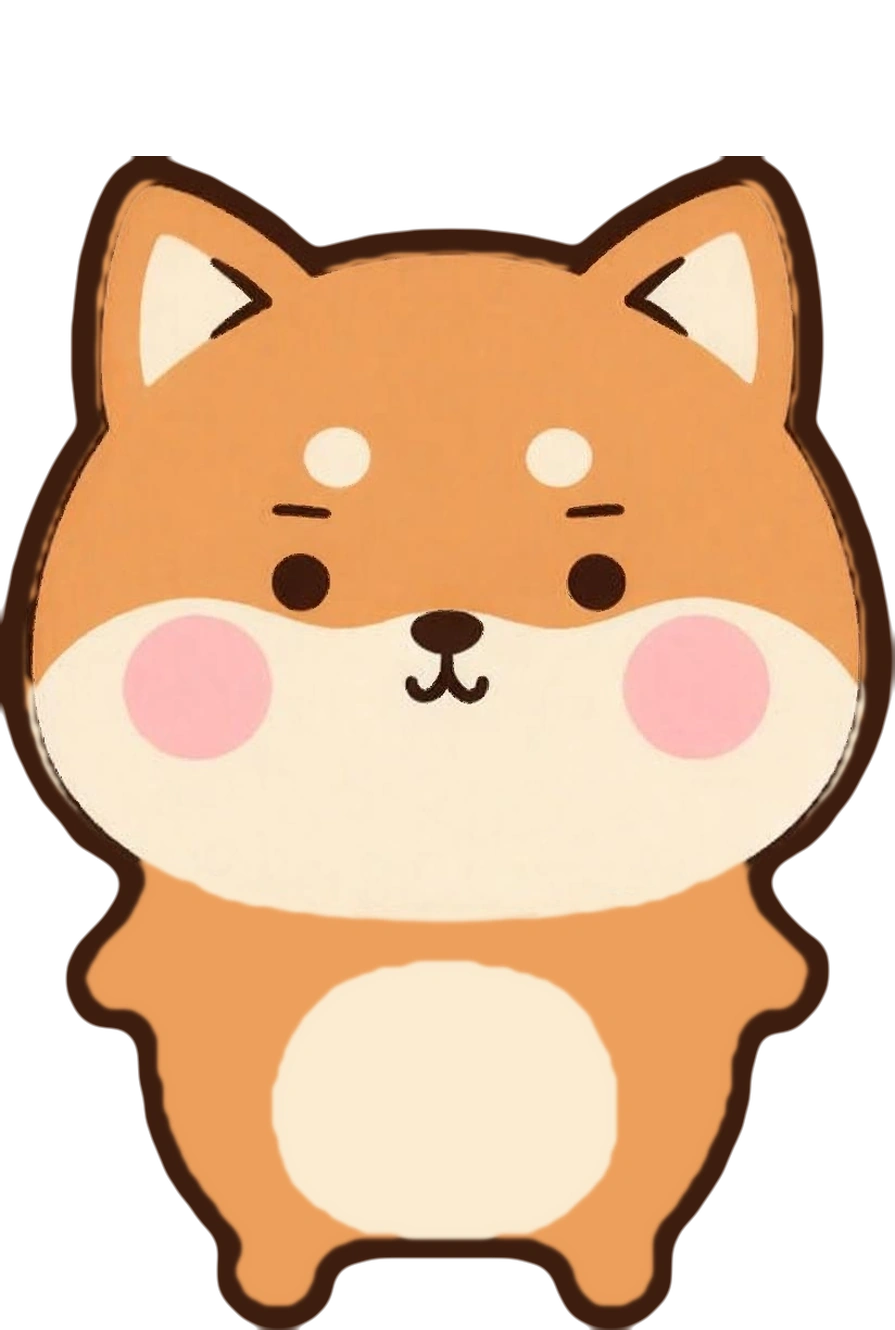
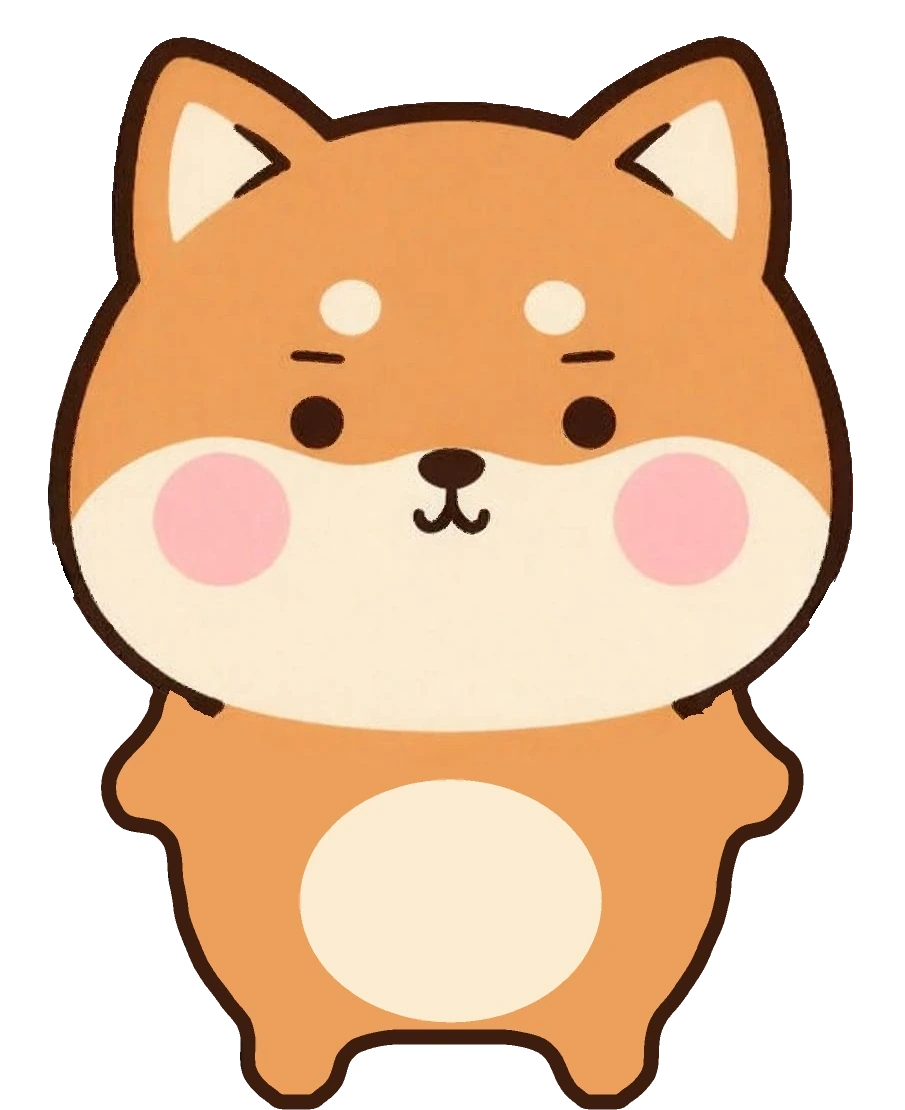
운동기록 프로토타입 v2.05 — 공유 카드 밤톨 Lv.1 그림 2개 교체(design nijim_share_bamtol_lv01_v205_20261121: 볼 테두리 좌우 잘림·귀 끝 평평 수정) + 볼 바깥 떨어진 1px 잔선만 제거(hd 130px) · share.js CH_SIZE 밤톨 01 story [535,656]·square [304,373] · 캐시키 v=2.05 · 되돌릴 곳 871be8bb

diff --git a/share.js b/share.js
@@ -63,7 +63,7 @@ const cutKey = lv => lv >= 99 ? '99' : ['01', '10', '20', '30', '40', '50', '60'
 const charSrc = (t, lv) => `assets/share/char/${t}/lv${cutKey(lv)}.webp?v=${VER}`;
 /* v1.48 캐릭터 오운완 전용 고해상 원본 + 표시 크기 표(정본 nijim_ounwan_char_square_v148_20261112 SIZE_TABLE.json, 정사각=A안) */
 const charHdSrc = (t, lv) => `assets/share/char_hd/${t}/lv${cutKey(lv)}.webp?v=${VER}`;
-const CH_SIZE = {"story":{"bamtol":{"01":[484,719],"10":[521,725],"20":[531,732],"30":[561,733],"40":[595,732],"50":[622,728],"60":[683,714],"70":[703,707],"80":[716,698],"90":[755,683],"99":[760,679]},"capy":{"01":[517,689],"10":[439,748],"20":[490,735],"30":[503,753],"40":[564,735],"50":[633,743],"60":[601,748],"70":[659,722],"80":[654,738],"90":[678,714],"99":[713,701]},"dot":{"01":[603,687],"10":[570,714],"20":[575,735],"30":[601,737],"40":[626,749],"50":[669,761],"60":[667,748],"70":[725,678],"80":[733,667],"90":[770,654],"99":[771,637]},"imu":{"01":[522,711],"10":[496,722],"20":[492,744],"30":[498,753],"40":[535,754],"50":[616,728],"60":[660,713],"70":[684,711],"80":[678,732],"90":[710,720],"99":[745,701]},"koa":{"01":[590,652],"10":[560,681],"20":[517,689],"30":[536,693],"40":[619,674],"50":[626,715],"60":[673,700],"70":[673,710],"80":[703,701],"90":[696,708],"99":[789,654]},"mungchi":{"01":[853,408],"10":[600,565],"20":[627,585],"30":[609,618],"40":[633,639],"50":[753,585],"60":[709,625],"70":[710,649],"80":[712,658],"90":[747,647],"99":[698,700]},"ppiyak":{"01":[496,725],"10":[472,757],"20":[504,764],"30":[505,788],"40":[602,768],"50":[635,758],"60":[638,758],"70":[632,779],"80":[698,735],"90":[703,732],"99":[734,693]},"rilla":{"01":[534,735],"10":[480,764],"20":[478,770],"30":[497,779],"40":[551,771],"50":[656,753],"60":[634,769],"70":[679,757],"80":[711,739],"90":[714,733],"99":[771,691]},"saetbyeol":{"01":[515,752],"10":[467,789],"20":[452,821],"30":[507,795],"40":[517,810],"50":[622,777],"60":[657,734],"70":[662,757],"80":[677,755],"90":[667,776],"99":[725,739]},"shadow":{"01":[917,447],"10":[586,671],"20":[632,648],"30":[679,661],"40":[691,674],"50":[669,736],"60":[697,694],"70":[712,706],"80":[711,713],"90":[743,694],"99":[787,689]},"ttukbi":{"01":[516,756],"10":[484,776],"20":[456,807],"30":[536,778],"40":[567,778],"50":[631,776],"60":[621,799],"70":[653,778],"80":[692,755],"90":[703,746],"99":[747,719]},"youngcha":{"01":[474,787],"10":[447,823],"20":[499,813],"30":[501,826],"40":[547,825],"50":[649,781],"60":[719,764],"70":[715,771],"80":[698,794],"90":[733,780],"99":[793,720]}},"square":{"bamtol":{"01":[276,409],"10":[296,413],"20":[302,416],"30":[319,417],"40":[338,417],"50":[354,414],"60":[388,406],"70":[400,403],"80":[407,398],"90":[429,388],"99":[433,387]},"capy":{"01":[294,392],"10":[250,426],"20":[279,419],"30":[286,429],"40":[321,418],"50":[361,423],"60":[342,425],"70":[375,411],"80":[372,420],"90":[386,406],"99":[406,399]},"dot":{"01":[343,391],"10":[324,406],"20":[327,418],"30":[342,420],"40":[356,426],"50":[381,433],"60":[379,426],"70":[413,386],"80":[417,380],"90":[438,372],"99":[439,362]},"imu":{"01":[297,405],"10":[282,411],"20":[280,424],"30":[283,429],"40":[305,429],"50":[351,415],"60":[376,406],"70":[389,405],"80":[386,416],"90":[404,410],"99":[424,399]},"koa":{"01":[336,371],"10":[319,387],"20":[294,392],"30":[305,395],"40":[352,383],"50":[356,407],"60":[383,398],"70":[383,404],"80":[400,399],"90":[396,403],"99":[449,372]},"mungchi":{"01":[452,216],"10":[341,321],"20":[357,333],"30":[347,352],"40":[360,364],"50":[429,333],"60":[404,356],"70":[404,369],"80":[405,375],"90":[425,368],"99":[397,399]},"ppiyak":{"01":[282,413],"10":[269,431],"20":[287,435],"30":[287,449],"40":[343,437],"50":[361,432],"60":[363,432],"70":[359,443],"80":[397,418],"90":[400,417],"99":[418,394]},"rilla":{"01":[304,418],"10":[273,435],"20":[272,438],"30":[283,443],"40":[314,439],"50":[373,429],"60":[361,438],"70":[386,431],"80":[405,421],"90":[407,417],"99":[439,393]},"saetbyeol":{"01":[293,428],"10":[266,449],"20":[257,467],"30":[288,453],"40":[295,461],"50":[354,442],"60":[374,418],"70":[377,431],"80":[386,430],"90":[380,442],"99":[413,421]},"shadow":{"01":[452,220],"10":[334,382],"20":[359,369],"30":[386,376],"40":[393,384],"50":[381,419],"60":[397,395],"70":[405,402],"80":[405,406],"90":[423,395],"99":[448,392]},"ttukbi":{"01":[294,430],"10":[275,442],"20":[259,459],"30":[305,443],"40":[323,443],"50":[359,442],"60":[353,455],"70":[372,443],"80":[394,430],"90":[400,425],"99":[425,409]},"youngcha":{"01":[270,448],"10":[254,468],"20":[284,463],"30":[285,470],"40":[311,470],"50":[369,445],"60":[409,435],"70":[407,439],"80":[397,452],"90":[417,444],"99":[451,410]}}};
+const CH_SIZE = {"story":{"bamtol":{"01":[535,656],"10":[521,725],"20":[531,732],"30":[561,733],"40":[595,732],"50":[622,728],"60":[683,714],"70":[703,707],"80":[716,698],"90":[755,683],"99":[760,679]},"capy":{"01":[517,689],"10":[439,748],"20":[490,735],"30":[503,753],"40":[564,735],"50":[633,743],"60":[601,748],"70":[659,722],"80":[654,738],"90":[678,714],"99":[713,701]},"dot":{"01":[603,687],"10":[570,714],"20":[575,735],"30":[601,737],"40":[626,749],"50":[669,761],"60":[667,748],"70":[725,678],"80":[733,667],"90":[770,654],"99":[771,637]},"imu":{"01":[522,711],"10":[496,722],"20":[492,744],"30":[498,753],"40":[535,754],"50":[616,728],"60":[660,713],"70":[684,711],"80":[678,732],"90":[710,720],"99":[745,701]},"koa":{"01":[590,652],"10":[560,681],"20":[517,689],"30":[536,693],"40":[619,674],"50":[626,715],"60":[673,700],"70":[673,710],"80":[703,701],"90":[696,708],"99":[789,654]},"mungchi":{"01":[853,408],"10":[600,565],"20":[627,585],"30":[609,618],"40":[633,639],"50":[753,585],"60":[709,625],"70":[710,649],"80":[712,658],"90":[747,647],"99":[698,700]},"ppiyak":{"01":[496,725],"10":[472,757],"20":[504,764],"30":[505,788],"40":[602,768],"50":[635,758],"60":[638,758],"70":[632,779],"80":[698,735],"90":[703,732],"99":[734,693]},"rilla":{"01":[534,735],"10":[480,764],"20":[478,770],"30":[497,779],"40":[551,771],"50":[656,753],"60":[634,769],"70":[679,757],"80":[711,739],"90":[714,733],"99":[771,691]},"saetbyeol":{"01":[515,752],"10":[467,789],"20":[452,821],"30":[507,795],"40":[517,810],"50":[622,777],"60":[657,734],"70":[662,757],"80":[677,755],"90":[667,776],"99":[725,739]},"shadow":{"01":[917,447],"10":[586,671],"20":[632,648],"30":[679,661],"40":[691,674],"50":[669,736],"60":[697,694],"70":[712,706],"80":[711,713],"90":[743,694],"99":[787,689]},"ttukbi":{"01":[516,756],"10":[484,776],"20":[456,807],"30":[536,778],"40":[567,778],"50":[631,776],"60":[621,799],"70":[653,778],"80":[692,755],"90":[703,746],"99":[747,719]},"youngcha":{"01":[474,787],"10":[447,823],"20":[499,813],"30":[501,826],"40":[547,825],"50":[649,781],"60":[719,764],"70":[715,771],"80":[698,794],"90":[733,780],"99":[793,720]}},"square":{"bamtol":{"01":[304,373],"10":[296,413],"20":[302,416],"30":[319,417],"40":[338,417],"50":[354,414],"60":[388,406],"70":[400,403],"80":[407,398],"90":[429,388],"99":[433,387]},"capy":{"01":[294,392],"10":[250,426],"20":[279,419],"30":[286,429],"40":[321,418],"50":[361,423],"60":[342,425],"70":[375,411],"80":[372,420],"90":[386,406],"99":[406,399]},"dot":{"01":[343,391],"10":[324,406],"20":[327,418],"30":[342,420],"40":[356,426],"50":[381,433],"60":[379,426],"70":[413,386],"80":[417,380],"90":[438,372],"99":[439,362]},"imu":{"01":[297,405],"10":[282,411],"20":[280,424],"30":[283,429],"40":[305,429],"50":[351,415],"60":[376,406],"70":[389,405],"80":[386,416],"90":[404,410],"99":[424,399]},"koa":{"01":[336,371],"10":[319,387],"20":[294,392],"30":[305,395],"40":[352,383],"50":[356,407],"60":[383,398],"70":[383,404],"80":[400,399],"90":[396,403],"99":[449,372]},"mungchi":{"01":[452,216],"10":[341,321],"20":[357,333],"30":[347,352],"40":[360,364],"50":[429,333],"60":[404,356],"70":[404,369],"80":[405,375],"90":[425,368],"99":[397,399]},"ppiyak":{"01":[282,413],"10":[269,431],"20":[287,435],"30":[287,449],"40":[343,437],"50":[361,432],"60":[363,432],"70":[359,443],"80":[397,418],"90":[400,417],"99":[418,394]},"rilla":{"01":[304,418],"10":[273,435],"20":[272,438],"30":[283,443],"40":[314,439],"50":[373,429],"60":[361,438],"70":[386,431],"80":[405,421],"90":[407,417],"99":[439,393]},"saetbyeol":{"01":[293,428],"10":[266,449],"20":[257,467],"30":[288,453],"40":[295,461],"50":[354,442],"60":[374,418],"70":[377,431],"80":[386,430],"90":[380,442],"99":[413,421]},"shadow":{"01":[452,220],"10":[334,382],"20":[359,369],"30":[386,376],"40":[393,384],"50":[381,419],"60":[397,395],"70":[405,402],"80":[405,406],"90":[423,395],"99":[448,392]},"ttukbi":{"01":[294,430],"10":[275,442],"20":[259,459],"30":[305,443],"40":[323,443],"50":[359,442],"60":[353,455],"70":[372,443],"80":[394,430],"90":[400,425],"99":[425,409]},"youngcha":{"01":[270,448],"10":[254,468],"20":[284,463],"30":[285,470],"40":[311,470],"50":[369,445],"60":[409,435],"70":[407,439],"80":[397,452],"90":[417,444],"99":[451,410]}}};
 const exSrc = id => `assets/ex/z/${id}_a.png?v=${VER}`;
 
 /* ---------- 운동 표기(lib.py chips_of) ---------- */

diff --git a/index.html b/index.html
@@ -5,8 +5,8 @@
 <meta name="viewport" content="width=device-width, initial-scale=1, viewport-fit=cover">
 <title>니짐내짐 운동기록 · 캐릭터 성장 프로토타입</title>
 <link rel="stylesheet" href="https://cdn.jsdelivr.net/gh/orioncactus/pretendard/dist/web/static/pretendard.css">
-<link rel="stylesheet" href="style.css?v=2.04">
-<link rel="stylesheet" href="admin.css?v=2.04">
+<link rel="stylesheet" href="style.css?v=2.05">
+<link rel="stylesheet" href="admin.css?v=2.05">
 </head>
 <body>
 <div class="app" id="app">
@@ -47,32 +47,32 @@
   <div class="evo-hint" id="evoHint">화면을 탭하면 건너뛰어요</div>
 </div>
 
-<script src="assets/chars.js?v=2.04"></script>
-<script src="assets/anim/anim.js?v=2.04"></script>
-<script src="exercises.js?v=2.04"></script>
-<script src="ex_guide.js?v=2.04"></script>
-<script src="engine.js?v=2.04"></script>
-<script src="config_store.js?v=2.04"></script>
-<script src="admin_shop82.js?v=2.04"></script>
-<script src="assets/food/points.js?v=2.04"></script>
-<script src="eat.js?v=2.04"></script>
-<script src="charanim.js?v=2.04"></script>
-<script src="qr.js?v=2.04"></script>
-<script src="center_machines.js?v=2.04"></script>
-<script src="gymreq.js?v=2.04"></script>
-<script src="item_config.js?v=2.04"></script>
-<script src="equip.js?v=2.04"></script>
-<script src="gear.js?v=2.04"></script>
-<script src="coach_ai.js?v=2.04"></script>
-<script src="app.js?v=2.04"></script>
-<script src="coach_config.js?v=2.04"></script>
-<script src="screens2.js?v=2.04"></script>
-<script src="badges.js?v=2.04"></script>
-<script src="coach_info.js?v=2.04"></script>
-<script src="center_rank.js?v=2.04"></script>
-<script src="ranking.js?v=2.04"></script>
-<script src="share.js?v=2.04"></script>
-<script src="feed.js?v=2.04"></script>
-<script src="admin.js?v=2.04"></script>
+<script src="assets/chars.js?v=2.05"></script>
+<script src="assets/anim/anim.js?v=2.05"></script>
+<script src="exercises.js?v=2.05"></script>
+<script src="ex_guide.js?v=2.05"></script>
+<script src="engine.js?v=2.05"></script>
+<script src="config_store.js?v=2.05"></script>
+<script src="admin_shop82.js?v=2.05"></script>
+<script src="assets/food/points.js?v=2.05"></script>
+<script src="eat.js?v=2.05"></script>
+<script src="charanim.js?v=2.05"></script>
+<script src="qr.js?v=2.05"></script>
+<script src="center_machines.js?v=2.05"></script>
+<script src="gymreq.js?v=2.05"></script>
+<script src="item_config.js?v=2.05"></script>
+<script src="equip.js?v=2.05"></script>
+<script src="gear.js?v=2.05"></script>
+<script src="coach_ai.js?v=2.05"></script>
+<script src="app.js?v=2.05"></script>
+<script src="coach_config.js?v=2.05"></script>
+<script src="screens2.js?v=2.05"></script>
+<script src="badges.js?v=2.05"></script>
+<script src="coach_info.js?v=2.05"></script>
+<script src="center_rank.js?v=2.05"></script>
+<script src="ranking.js?v=2.05"></script>
+<script src="share.js?v=2.05"></script>
+<script src="feed.js?v=2.05"></script>
+<script src="admin.js?v=2.05"></script>
 </body>
 </html>

diff --git a/app.js b/app.js
@@ -2,7 +2,7 @@
 /* v1.12 — v1.11(C안 1/4 고객 앱 기록 흐름 전부) + 결정 33: 아이템 경험치는 한도 없음(운동 경험치만 하루 600·주 1,800).
    경험치·레벨·표정·랭킹 계산은 engine.js 한 곳(CFG·sessionXP·capGain·applyXP·judgeIntensity·exprFor·forecastWeek). 이 파일은 화면만 */
 const KEY = 'nijim_workout_proto_v111';
-const VER = 'v2.04';
+const VER = 'v2.05';
 /* 확정 12종(결정 22~25) — design v13 정본 · 레벨 띠 11컷 · 표정 5종. 12종 모두 처음부터 선택 가능(결정 25) */
 const CH = {
   mungchi:   { name: '뭉치', josa: '가', intro: '느긋하고 솔직한 땀방울 슬라임' },
